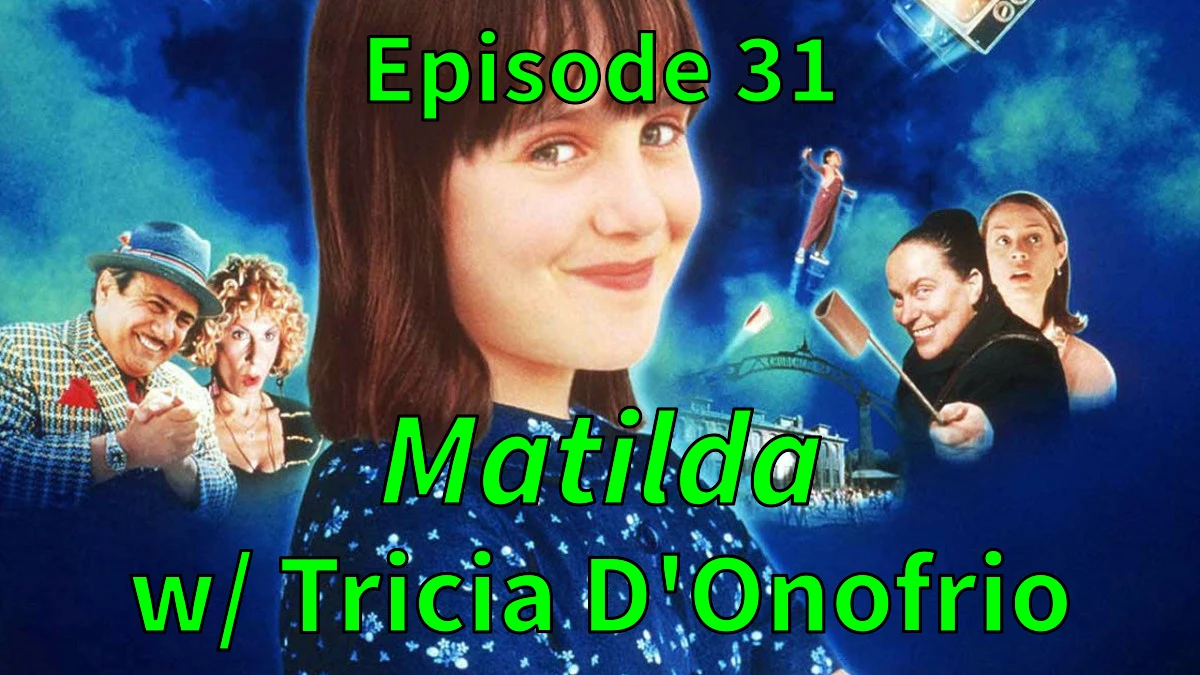
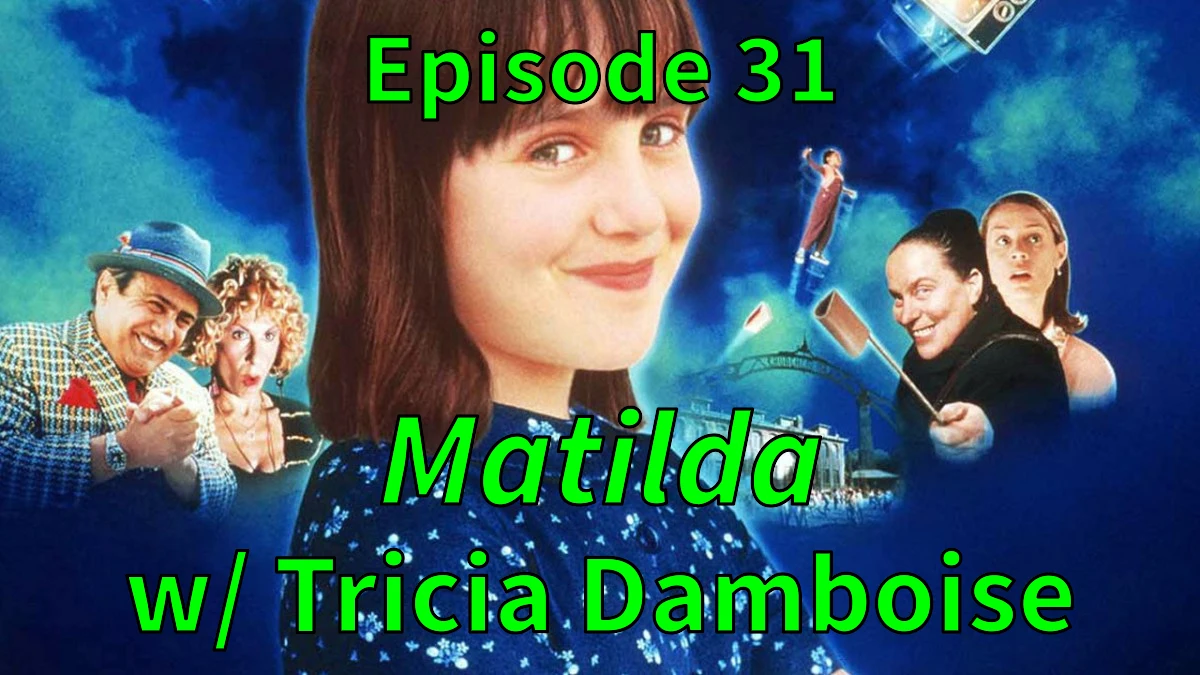
Update Tricia name (#129)

Changed region(s): [[0.2467, 0.8089, 0.8942, 0.9644], [0.0925, 0.8089, 0.2467, 0.9644]]

diff --git a/content/post/31-matilda/index.md b/content/post/31-matilda/index.md
@@ -1,12 +1,12 @@
 ---
-title: "Episode 31: Matilda (w/ Tricia D'Onofrio)"
+title: "Episode 31: Matilda (w/ Tricia Damboise)"
 date: 2025-10-30
 images:
   - /31-matilda/cover.webp
 libsyn_episode_id: 38850415
 ---
 
-Fan favorite [Tricia D'Onofrio](https://instagram.com/keylimepie4) returns to the podcast to talk about the 1996 film [_Matilda_](https://www.imdb.com/title/tt0117008/), starring Mara Wilson, Danny DeVito, and Rhea Perlman.
+Fan favorite [Tricia Damboise](https://instagram.com/keylimepie4) returns to the podcast to talk about the 1996 film [_Matilda_](https://www.imdb.com/title/tt0117008/), starring Mara Wilson, Danny DeVito, and Rhea Perlman.
 
 <!--more-->
 
